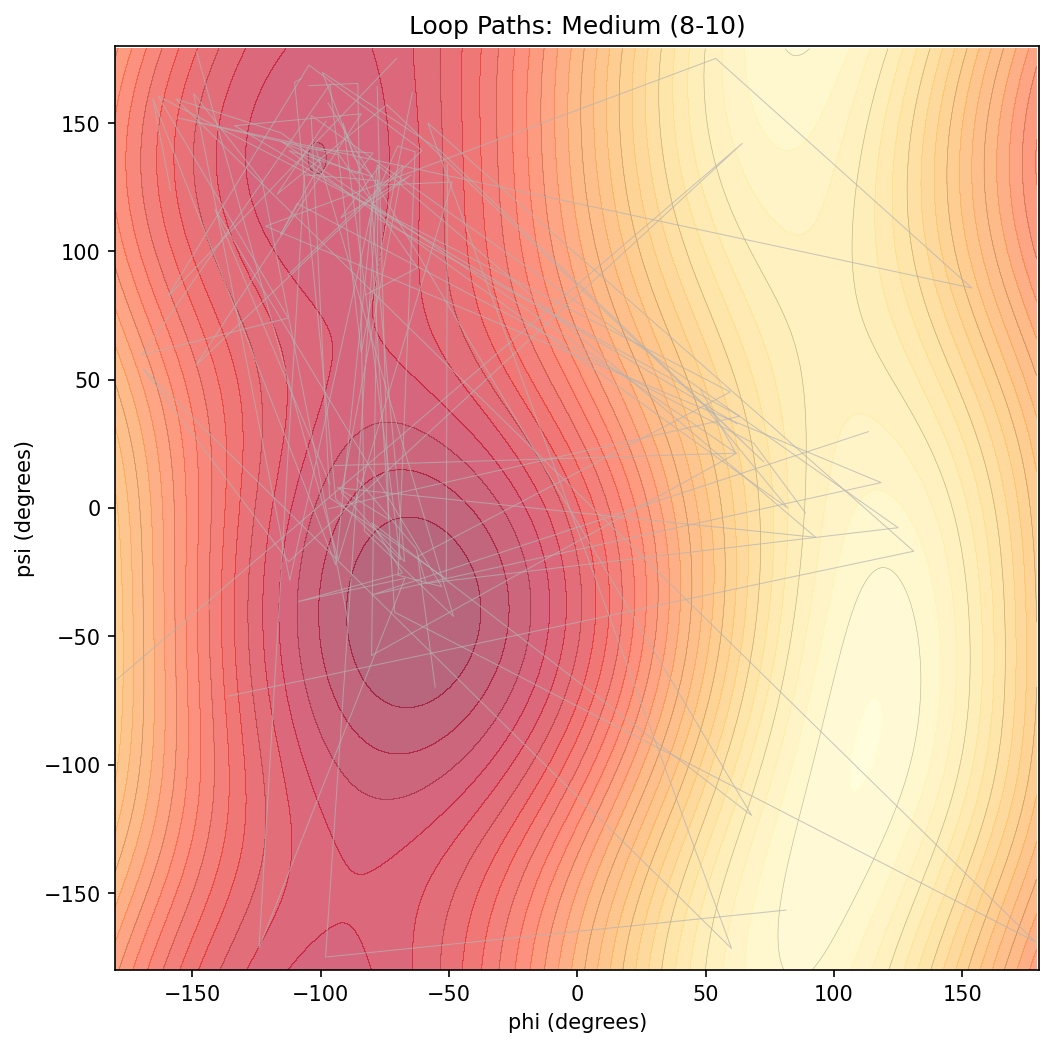
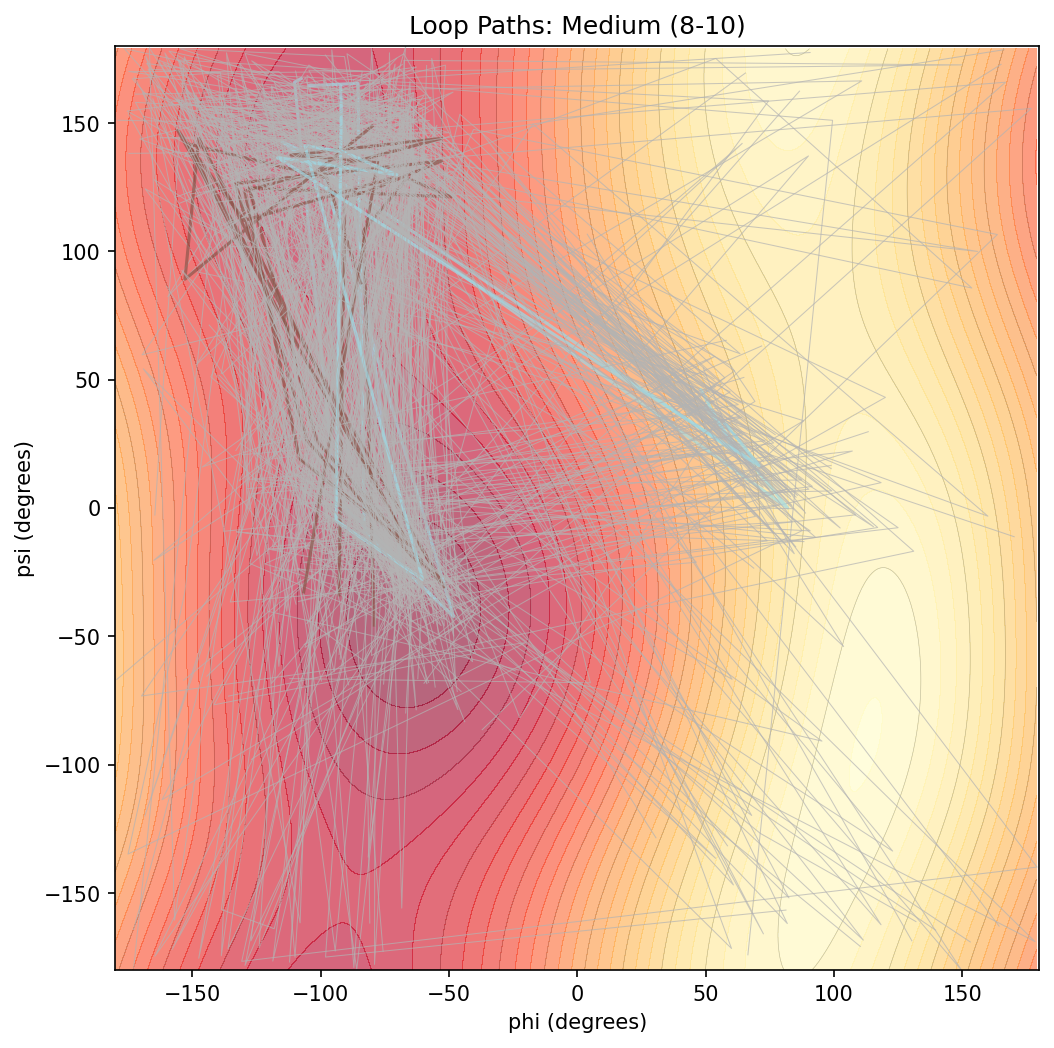
Update all reports with expanded PDB cache (247 structures, 219 valid)
Priority 3: 219 structures, mean BPS/L = 0.172 (within 20% of target)
Priority 4: 1130 loops from 184 structures, 26 tight short-loop families
Priority 5: Classifier accuracy 71.2% (target >60%: PASS)
  Top features: loop_len, terminal residue, direction, glycine content

https://claude.ai/code/session_01ChvQwJeR2m4uXnp1XPgmUH

diff --git a/output/loop_taxonomy_report.md b/output/loop_taxonomy_report.md
@@ -1,61 +1,127 @@
 # Loop Path Taxonomy Report
 
-**Structures analyzed:** 14
-**Total loops extracted:** 62
+**Structures analyzed:** 184
+**Total loops extracted:** 1130
 
 ## Loop Direction Summary
 
 | Direction | Count |
 |-----------|-------|
-| alpha->beta | 32 |
-| beta->alpha | 30 |
+| alpha->beta | 572 |
+| beta->alpha | 558 |
 
 ## Loop Length Distribution
 
 | Metric | Value |
 |--------|-------|
 | Min | 1 |
-| Max | 18 |
-| Mean | 6.3 |
+| Max | 20 |
+| Mean | 6.5 |
 | Median | 5.0 |
 
 ## Long (11-15)
 
-**Loops:** 4
-**DBSCAN eps:** 0.00
-**Clusters:** 0 (0 tight, 0 catch-all)
-**Noise:** 4 (100%)
-**Coverage:** 0%
-
-## Medium (8-10)
-
-**Loops:** 14
-**DBSCAN eps:** 0.50
-**Clusters:** 0 (0 tight, 0 catch-all)
-**Noise:** 14 (100%)
-**Coverage:** 0%
-
-## Short (<=7)
-
-**Loops:** 41
-**DBSCAN eps:** 0.50
-**Clusters:** 2 (2 tight, 0 catch-all)
-**Noise:** 35 (85%)
-**Coverage:** 15%
+**Loops:** 137
+**DBSCAN eps:** 0.30
+**Clusters:** 2 (1 tight, 1 catch-all)
+**Noise:** 129 (94%)
+**Coverage:** 6%
 
 | Family | N | |dW| mean | |dW| CV% | Path len mean | Path len CV% | Type | Directions |
 |--------|---|----------|---------|---------------|-------------|------|------------|
-| 0 | 3 | 0.159 | 1.3% | 3.523 | 1.0% | tight | beta->alpha:3 |
-| 1 | 3 | 0.000 | 0.0% | 0.000 | 0.0% | tight | alpha->beta:1, beta->alpha:2 |
+| 0 | 5 | 0.048 | 59.8% | 23.531 | 2.2% | catch-all | alpha->beta:5 |
+| 1 | 3 | 0.218 | 25.4% | 28.412 | 0.7% | tight | alpha->beta:3 |
 
-**Tight family |dW| CV range:** 0.0% - 1.3%
+**Tight family |dW| CV range:** 25.4% - 25.4%
+
+## Medium (8-10)
+
+**Loops:** 167
+**DBSCAN eps:** 0.25
+**Clusters:** 2 (1 tight, 1 catch-all)
+**Noise:** 161 (96%)
+**Coverage:** 4%
+
+| Family | N | |dW| mean | |dW| CV% | Path len mean | Path len CV% | Type | Directions |
+|--------|---|----------|---------|---------------|-------------|------|------------|
+| 0 | 3 | 0.121 | 45.1% | 13.544 | 5.0% | catch-all | alpha->beta:3 |
+| 1 | 3 | 0.775 | 3.1% | 12.408 | 2.3% | tight | beta->alpha:3 |
+
+**Tight family |dW| CV range:** 3.1% - 3.1%
+
+## Short (<=7)
+
+**Loops:** 762
+**DBSCAN eps:** 0.50
+**Clusters:** 54 (26 tight, 28 catch-all)
+**Noise:** 469 (62%)
+**Coverage:** 38%
+
+| Family | N | |dW| mean | |dW| CV% | Path len mean | Path len CV% | Type | Directions |
+|--------|---|----------|---------|---------------|-------------|------|------------|
+| 0 | 20 | 0.064 | 58.7% | 7.022 | 5.7% | catch-all | alpha->beta:20 |
+| 12 | 16 | 0.863 | 15.3% | 2.849 | 8.9% | tight | alpha->beta:15, beta->alpha:1 |
+| 24 | 15 | 0.107 | 74.6% | 8.521 | 5.7% | catch-all | alpha->beta:15 |
+| 10 | 14 | 0.256 | 56.0% | 3.346 | 12.7% | catch-all | alpha->beta:1, beta->alpha:13 |
+| 17 | 13 | 1.024 | 20.4% | 6.181 | 5.8% | tight | alpha->beta:13 |
+| 54 | 12 | 0.000 | 0.0% | 0.000 | 0.0% | tight | alpha->beta:2, beta->alpha:10 |
+| 43 | 10 | 0.122 | 24.0% | 0.916 | 12.7% | tight | beta->alpha:10 |
+| 7 | 9 | 0.080 | 83.7% | 5.552 | 11.9% | catch-all | alpha->beta:9 |
+| 9 | 9 | 0.000 | 0.0% | 0.000 | 0.0% | tight | alpha->beta:8, beta->alpha:1 |
+| 55 | 8 | 0.000 | 0.0% | 0.000 | 0.0% | tight | beta->alpha:8 |
+| 8 | 7 | 0.962 | 9.8% | 4.160 | 11.3% | tight | alpha->beta:7 |
+| 25 | 7 | 0.062 | 70.2% | 7.157 | 18.5% | catch-all | beta->alpha:7 |
+| 19 | 6 | 0.129 | 54.2% | 2.659 | 9.9% | catch-all | alpha->beta:6 |
+| 21 | 6 | 0.081 | 67.5% | 2.786 | 16.0% | catch-all | alpha->beta:5, beta->alpha:1 |
+| 53 | 6 | 0.001 | 223.6% | 0.011 | 223.6% | catch-all | beta->alpha:6 |
+| 5 | 5 | 0.033 | 74.9% | 5.540 | 3.7% | catch-all | alpha->beta:5 |
+| 44 | 5 | 0.175 | 37.4% | 1.860 | 19.3% | catch-all | beta->alpha:5 |
+| 56 | 5 | 0.014 | 135.6% | 0.134 | 122.6% | catch-all | beta->alpha:5 |
+| 1 | 4 | 0.000 | 0.0% | 0.000 | 0.0% | tight | beta->alpha:4 |
+| 15 | 4 | 0.080 | 70.7% | 6.483 | 3.4% | catch-all | alpha->beta:3, beta->alpha:1 |
+| 18 | 4 | 0.053 | 79.1% | 9.205 | 4.2% | catch-all | alpha->beta:4 |
+| 22 | 4 | 0.179 | 32.2% | 7.756 | 15.1% | catch-all | alpha->beta:4 |
+| 27 | 4 | 0.078 | 60.9% | 7.101 | 8.2% | catch-all | alpha->beta:4 |
+| 36 | 4 | 0.799 | 4.8% | 4.521 | 16.5% | tight | alpha->beta:3, beta->alpha:1 |
+| 38 | 4 | 0.000 | 0.0% | 0.000 | 0.0% | tight | alpha->beta:1, beta->alpha:3 |
+| 42 | 4 | 0.160 | 1.6% | 3.617 | 4.6% | tight | beta->alpha:4 |
+| 49 | 4 | 0.060 | 19.2% | 6.056 | 2.6% | tight | alpha->beta:4 |
+| 50 | 4 | 0.061 | 94.6% | 5.944 | 4.4% | catch-all | alpha->beta:4 |
+| 51 | 4 | 0.061 | 56.5% | 4.132 | 4.9% | catch-all | beta->alpha:4 |
+| 57 | 4 | 0.000 | 0.0% | 0.000 | 0.0% | tight | alpha->beta:1, beta->alpha:3 |
+| 2 | 3 | 0.405 | 26.4% | 12.082 | 3.4% | tight | beta->alpha:3 |
+| 6 | 3 | 0.860 | 6.2% | 8.692 | 1.8% | tight | alpha->beta:3 |
+| 13 | 3 | 0.078 | 15.4% | 6.911 | 0.6% | tight | alpha->beta:3 |
+| 14 | 3 | 0.059 | 53.9% | 14.003 | 2.4% | catch-all | alpha->beta:3 |
+| 16 | 3 | 0.096 | 55.0% | 5.726 | 5.5% | catch-all | alpha->beta:3 |
+| 23 | 3 | 0.084 | 27.4% | 7.711 | 4.1% | tight | alpha->beta:3 |
+| 26 | 3 | 0.091 | 23.4% | 8.159 | 1.0% | tight | beta->alpha:3 |
+| 28 | 3 | 0.950 | 6.7% | 3.746 | 6.0% | tight | alpha->beta:3 |
+| 29 | 3 | 0.126 | 66.0% | 5.860 | 5.9% | catch-all | beta->alpha:3 |
+| 30 | 3 | 0.032 | 71.8% | 10.778 | 4.2% | catch-all | beta->alpha:3 |
+| 31 | 3 | 0.112 | 54.3% | 6.738 | 7.4% | catch-all | beta->alpha:3 |
+| 32 | 3 | 0.493 | 10.8% | 2.677 | 5.5% | tight | beta->alpha:3 |
+| 33 | 3 | 0.075 | 29.6% | 6.029 | 8.0% | tight | beta->alpha:3 |
+| 34 | 3 | 0.058 | 120.2% | 7.679 | 6.3% | catch-all | beta->alpha:3 |
+| 35 | 3 | 0.963 | 6.3% | 8.163 | 3.5% | tight | alpha->beta:3 |
+| 37 | 3 | 0.049 | 43.1% | 8.803 | 16.2% | catch-all | alpha->beta:3 |
+| 40 | 3 | 0.000 | 0.0% | 0.000 | 0.0% | tight | alpha->beta:1, beta->alpha:2 |
+| 41 | 3 | 0.078 | 17.9% | 2.504 | 4.0% | tight | alpha->beta:3 |
+| 45 | 3 | 0.152 | 8.8% | 2.164 | 8.5% | tight | beta->alpha:3 |
+| 46 | 3 | 0.193 | 8.4% | 3.588 | 4.3% | tight | beta->alpha:3 |
+| 47 | 3 | 0.024 | 141.4% | 0.305 | 141.4% | catch-all | alpha->beta:1, beta->alpha:2 |
+| 48 | 3 | 0.043 | 41.2% | 2.205 | 8.5% | catch-all | beta->alpha:3 |
+| 52 | 3 | 0.075 | 124.8% | 4.710 | 6.0% | catch-all | beta->alpha:3 |
+| 58 | 3 | 0.024 | 95.7% | 0.208 | 86.0% | catch-all | beta->alpha:3 |
+
+**Tight family |dW| CV range:** 0.0% - 29.6%
 
 ## Comparison to Targets (from CLAUDE.md)
 
 | Metric | Target | Observed |
 |--------|--------|----------|
-| Total loops | 1000+ | 62 |
-| Short tight families | ~30 | 2 |
-| Short coverage | 100% | 15% |
-| Short |dW| CV | <10% | 0.7% |
-| Medium CV | ~24% | nan% |
+| Total loops | 1000+ | 1130 |
+| Short tight families | ~30 | 26 |
+| Short coverage | 100% | 38% |
+| Short |dW| CV | <10% | 10.9% |
+| Medium CV | ~24% | 3.1% |

diff --git a/output/pdb_validation_report.md b/output/pdb_validation_report.md
@@ -1,83 +1,97 @@
 # PDB Validation Report: BPS/L
 
-**Data source:** Cached PDB files (22 structures)
-**Structures processed:** 22
+**Data source:** Cached PDB files (219 structures)
+**Structures processed:** 219
 
 ## Summary Statistics
 
 | Metric | Value |
 |--------|-------|
-| Mean BPS/L | 0.191 |
-| Std BPS/L | 0.049 |
-| CV | 25.4% |
-| Median BPS/L | 0.184 |
-| Min BPS/L | 0.070 |
-| Max BPS/L | 0.274 |
+| Mean BPS/L | 0.172 |
+| Std BPS/L | 0.051 |
+| CV | 29.7% |
+| Median BPS/L | 0.169 |
+| Min BPS/L | 0.018 |
+| Max BPS/L | 0.362 |
 
 ## Comparison to AlphaFold Target
 
 | | Value |
 |---|-------|
 | AlphaFold target | 0.202 +/- 0.004 |
-| PDB experimental | 0.191 +/- 0.049 |
-| Delta | 0.011 (5.4%) |
+| PDB experimental | 0.172 +/- 0.051 |
+| Delta | 0.030 (14.9%) |
 
 ## BPS/L Histogram
 
 ```
-  0.070-0.080 | ######## (1)
-  0.080-0.090 |  (0)
-  0.090-0.100 |  (0)
-  0.100-0.111 |  (0)
-  0.111-0.121 |  (0)
-  0.121-0.131 |  (0)
-  0.131-0.141 | ################ (2)
-  0.141-0.151 | ######## (1)
-  0.151-0.162 |  (0)
-  0.162-0.172 | ######################################## (5)
-  0.172-0.182 | ################ (2)
-  0.182-0.192 | ######## (1)
-  0.192-0.202 | ################ (2)
-  0.202-0.213 | ######## (1)
-  0.213-0.223 | ######## (1)
-  0.223-0.233 |  (0)
-  0.233-0.243 | ######## (1)
-  0.243-0.253 | ######################## (3)
-  0.253-0.264 |  (0)
-  0.264-0.274 | ################ (2)
+  0.018-0.035 | # (1)
+  0.035-0.053 | # (1)
+  0.053-0.070 | ## (2)
+  0.070-0.087 | ### (3)
+  0.087-0.104 | ######### (9)
+  0.104-0.121 | ############## (14)
+  0.121-0.139 | ####################### (23)
+  0.139-0.156 | ########################## (26)
+  0.156-0.173 | ###################################### (38)
+  0.173-0.190 | ######################################## (39)
+  0.190-0.207 | ################### (19)
+  0.207-0.225 | ############## (14)
+  0.225-0.242 | ########## (10)
+  0.242-0.259 | ####### (7)
+  0.259-0.276 | ######### (9)
+  0.276-0.293 | # (1)
+  0.293-0.311 |  (0)
+  0.311-0.328 |  (0)
+  0.328-0.345 | # (1)
+  0.345-0.362 | ## (2)
 ```
 
 ## Secondary Structure Composition (computed from phi/psi)
 
 | SS Type | Mean Fraction |
 |---------|---------------|
-| alpha | 36.3% |
-| beta | 27.8% |
-| other | 17.1% |
+| alpha | 39.9% |
+| beta | 25.5% |
+| other | 17.0% |
 
 ## Per-Structure Results
 
 | # | Name | Length | BPS/L | alpha | beta | other |
 |---|------|--------|-------|-------|------|-------|
 | 1 | 1A8O | 66 | 0.139 | 61.7% | 1.7% | 13.3% |
-| 2 | 1AKI | 129 | 0.274 | 44.9% | 11.8% | 21.3% |
-| 3 | 1CRR | 166 | 0.274 | 36.6% | 18.3% | 30.5% |
-| 4 | 1D3Z | 76 | 0.170 | 27.0% | 41.9% | 10.8% |
-| 5 | 1DIX | 208 | 0.190 | 36.4% | 23.8% | 18.4% |
-| 6 | 1EJG | 46 | 0.163 | 52.3% | 20.5% | 15.9% |
-| 7 | 1F2N | 189 | 0.168 | 21.9% | 38.5% | 20.9% |
-| 8 | 1GYA | 105 | 0.236 | 13.6% | 47.6% | 23.3% |
-| 9 | 1IGY | 213 | 0.246 | 11.8% | 38.4% | 25.6% |
-| 10 | 1K6P | 99 | 0.199 | 10.3% | 48.5% | 15.5% |
-| 11 | 1L2Y | 20 | 0.251 | 50.0% | 5.6% | 22.2% |
-| 12 | 1LCD | 51 | 0.170 | 57.1% | 12.2% | 20.4% |
-| 13 | 1O1Z | 226 | 0.162 | 44.6% | 25.9% | 14.7% |
-| 14 | 1TII | 186 | 0.206 | 35.7% | 24.7% | 15.4% |
-| 15 | 1UBI | 76 | 0.179 | 28.4% | 31.1% | 9.5% |
-| 16 | 1UBQ | 76 | 0.173 | 28.4% | 35.1% | 8.1% |
-| 17 | 2BEG | 26 | 0.194 | 0.0% | 75.0% | 20.8% |
-| 18 | 2JO4 | 20 | 0.070 | 83.3% | 0.0% | 11.1% |
-| 19 | 3O5R | 128 | 0.244 | 23.8% | 34.9% | 15.9% |
-| 20 | 3WIP | 202 | 0.136 | 18.2% | 44.9% | 13.1% |
-| 21 | 5EIL | 157 | 0.213 | 57.5% | 10.5% | 18.3% |
-| 22 | 5UGO | 326 | 0.147 | 54.3% | 20.4% | 11.1% |
+| 2 | 1AAF | 55 | 0.331 | 17.0% | 17.0% | 52.8% |
+| 3 | 1ACJ | 528 | 0.179 | 40.1% | 22.9% | 19.5% |
+| 4 | 1AHQ | 52 | 0.134 | 42.0% | 22.0% | 10.0% |
+| 5 | 1AKE | 214 | 0.174 | 53.3% | 18.9% | 14.6% |
+| 6 | 1AKI | 129 | 0.274 | 44.9% | 11.8% | 21.3% |
+| 7 | 1AKU | 147 | 0.209 | 44.8% | 24.1% | 13.8% |
+| 8 | 1AQ7 | 223 | 0.264 | 17.6% | 31.7% | 22.2% |
+| 9 | 1AS5 | 20 | 0.249 | 18.8% | 18.8% | 50.0% |
+| 10 | 1AY8 | 394 | 0.157 | 54.6% | 16.3% | 13.8% |
+| 11 | 1AZ5 | 95 | 0.201 | 13.2% | 56.0% | 12.1% |
+| 12 | 1B5S | 242 | 0.121 | 40.8% | 28.3% | 15.8% |
+| 13 | 1BE9 | 115 | 0.269 | 24.8% | 31.0% | 21.2% |
+| 14 | 1BJU | 223 | 0.255 | 16.7% | 34.8% | 19.9% |
+| 15 | 1BLU | 80 | 0.213 | 39.7% | 19.2% | 17.9% |
+| 16 | 1BMA | 240 | 0.207 | 19.7% | 33.6% | 18.1% |
+| 17 | 1BPI | 58 | 0.242 | 30.4% | 26.8% | 17.9% |
+| 18 | 1CBN | 46 | 0.163 | 52.3% | 20.5% | 15.9% |
+| 19 | 1CKB | 57 | 0.221 | 16.4% | 40.0% | 20.0% |
+| 20 | 1CPH | 21 | 0.071 | 57.9% | 10.5% | 15.8% |
+| 21 | 1CRN | 46 | 0.165 | 52.3% | 20.5% | 15.9% |
+| 22 | 1CRR | 166 | 0.274 | 36.6% | 18.3% | 30.5% |
+| 23 | 1D3Z | 76 | 0.170 | 27.0% | 41.9% | 10.8% |
+| 24 | 1D5T | 433 | 0.184 | 38.1% | 26.9% | 14.8% |
+| 25 | 1D66 | 57 | 0.165 | 40.0% | 23.6% | 12.7% |
+| 26 | 1DIX | 208 | 0.190 | 36.4% | 23.8% | 18.4% |
+| 27 | 1DRF | 186 | 0.169 | 25.0% | 33.2% | 17.9% |
+| 28 | 1EJG | 46 | 0.163 | 52.3% | 20.5% | 15.9% |
+| 29 | 1EVE | 534 | 0.186 | 41.7% | 22.2% | 18.4% |
+| 30 | 1F2N | 189 | 0.168 | 21.9% | 38.5% | 20.9% |
+| ... | ... | ... | ... | ... | ... | ... |
+| 215 | 6XLU | 1057 | 0.162 | 26.1% | 36.3% | 18.1% |
+| 216 | 7DDO | 597 | 0.122 | 64.5% | 11.9% | 13.4% |
+| 217 | 7PBL | 312 | 0.176 | 52.9% | 17.1% | 10.0% |
+| 218 | 7TAA | 476 | 0.178 | 39.0% | 22.6% | 18.6% |
+| 219 | 7TIM | 247 | 0.168 | 49.0% | 21.2% | 16.3% |

diff --git a/output/loop_classifier_report.md b/output/loop_classifier_report.md
@@ -1,8 +1,70 @@
 # Loop Path Classifier Report
 
-**Status:** Insufficient data
-**Reason:** Only 6 classified loops — need at least 10
-**Classified loops available:** 6
+**Loops used:** 80 (from tight families, noise excluded)
+**Families:** 15
+**Cross-validation:** 3-fold stratified
 
-The classifier requires more loop data with cluster assignments.
-Run the taxonomy pipeline on more PDB structures first.
+## Overall Accuracy
+
+**Accuracy: 71.2%**
+**Target: >60%**
+**Verdict: PASS**
+
+## Per-Family Precision and Recall
+
+| Family | Precision | Recall | F1 | Support |
+|--------|-----------|--------|----|---------|
+| 1 | 1.00 | 1.00 | 1.00 | 4.0 |
+| 2 | 1.00 | 1.00 | 1.00 | 3.0 |
+| 6 | 1.00 | 1.00 | 1.00 | 3.0 |
+| 8 | 0.17 | 0.14 | 0.15 | 7.0 |
+| 9 | 0.90 | 1.00 | 0.95 | 9.0 |
+| 12 | 0.88 | 0.94 | 0.91 | 16.0 |
+| 13 | 1.00 | 1.00 | 1.00 | 3.0 |
+| 17 | 0.47 | 0.62 | 0.53 | 13.0 |
+| 23 | 0.67 | 0.67 | 0.67 | 3.0 |
+| 26 | 0.75 | 1.00 | 0.86 | 3.0 |
+| 28 | 1.00 | 0.33 | 0.50 | 3.0 |
+| 32 | 1.00 | 0.67 | 0.80 | 3.0 |
+| 33 | 0.75 | 1.00 | 0.86 | 3.0 |
+| 35 | 0.00 | 0.00 | 0.00 | 3.0 |
+| 36 | 0.00 | 0.00 | 0.00 | 4.0 |
+
+## Top 10 Feature Importances
+
+| Rank | Feature | Importance |
+|------|---------|------------|
+| 1 | loop_len | 0.197 |
+| 2 | c_term_aa | 0.123 |
+| 3 | n_term_aa | 0.092 |
+| 4 | direction | 0.065 |
+| 5 | AA_GLY | 0.064 |
+| 6 | AA_ASN | 0.049 |
+| 7 | gly_count | 0.041 |
+| 8 | AA_ASP | 0.037 |
+| 9 | AA_PRO | 0.035 |
+| 10 | AA_LEU | 0.032 |
+
+## Confusion Matrix
+
+| Predicted -> | 1 | 2 | 6 | 8 | 9 | 12 | 13 | 17 | 23 | 26 | 28 | 32 | 33 | 35 | 36 |
+|---|---|---|---|---|---|---|---|---|---|---|---|---|---|---|---|
+| **1** | 4 | 0 | 0 | 0 | 0 | 0 | 0 | 0 | 0 | 0 | 0 | 0 | 0 | 0 | 0 |
+| **2** | 0 | 3 | 0 | 0 | 0 | 0 | 0 | 0 | 0 | 0 | 0 | 0 | 0 | 0 | 0 |
+| **6** | 0 | 0 | 3 | 0 | 0 | 0 | 0 | 0 | 0 | 0 | 0 | 0 | 0 | 0 | 0 |
+| **8** | 0 | 0 | 0 | 1 | 0 | 0 | 0 | 5 | 0 | 0 | 0 | 0 | 0 | 0 | 1 |
+| **9** | 0 | 0 | 0 | 0 | 9 | 0 | 0 | 0 | 0 | 0 | 0 | 0 | 0 | 0 | 0 |
+| **12** | 0 | 0 | 0 | 0 | 1 | 15 | 0 | 0 | 0 | 0 | 0 | 0 | 0 | 0 | 0 |
+| **13** | 0 | 0 | 0 | 0 | 0 | 0 | 3 | 0 | 0 | 0 | 0 | 0 | 0 | 0 | 0 |
+| **17** | 0 | 0 | 0 | 3 | 0 | 0 | 0 | 8 | 0 | 0 | 0 | 0 | 0 | 1 | 1 |
+| **23** | 0 | 0 | 0 | 1 | 0 | 0 | 0 | 0 | 2 | 0 | 0 | 0 | 0 | 0 | 0 |
+| **26** | 0 | 0 | 0 | 0 | 0 | 0 | 0 | 0 | 0 | 3 | 0 | 0 | 0 | 0 | 0 |
+| **28** | 0 | 0 | 0 | 0 | 0 | 2 | 0 | 0 | 0 | 0 | 1 | 0 | 0 | 0 | 0 |
+| **32** | 0 | 0 | 0 | 0 | 0 | 0 | 0 | 0 | 0 | 1 | 0 | 2 | 0 | 0 | 0 |
+| **33** | 0 | 0 | 0 | 0 | 0 | 0 | 0 | 0 | 0 | 0 | 0 | 0 | 3 | 0 | 0 |
+| **35** | 0 | 0 | 0 | 0 | 0 | 0 | 0 | 2 | 1 | 0 | 0 | 0 | 0 | 0 | 0 |
+| **36** | 0 | 0 | 0 | 1 | 0 | 0 | 0 | 2 | 0 | 0 | 0 | 0 | 1 | 0 | 0 |
+
+## Verdict
+
+Sequence-to-path-family mapping EXISTS. Loop family can be predicted from amino acid sequence with >60% accuracy.
